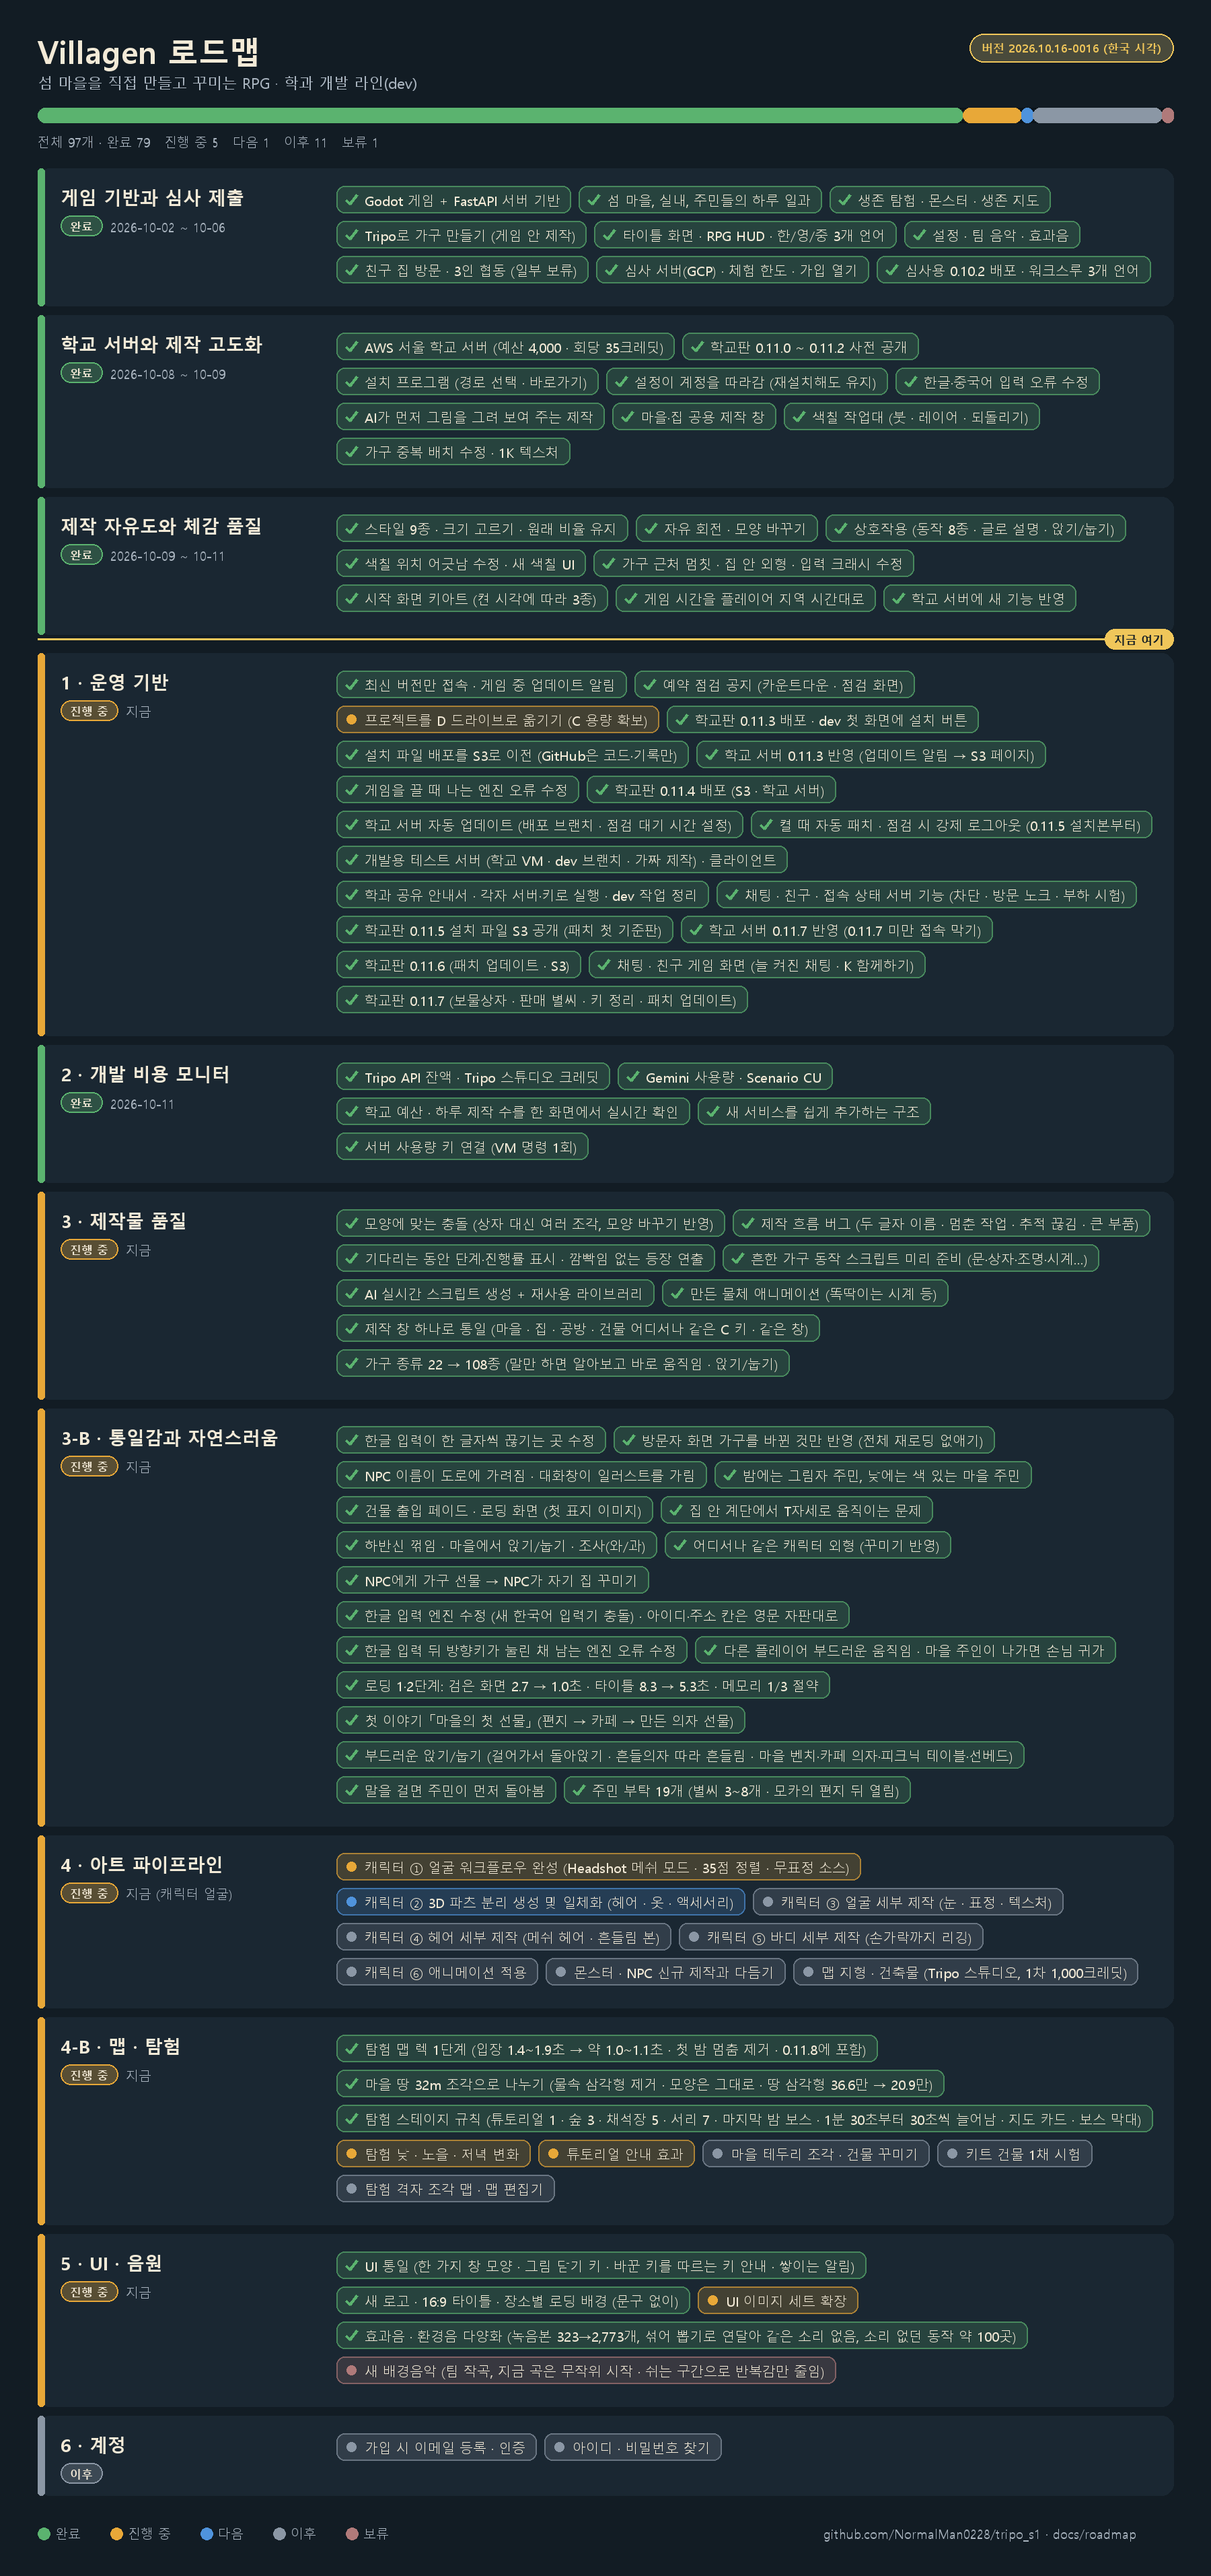
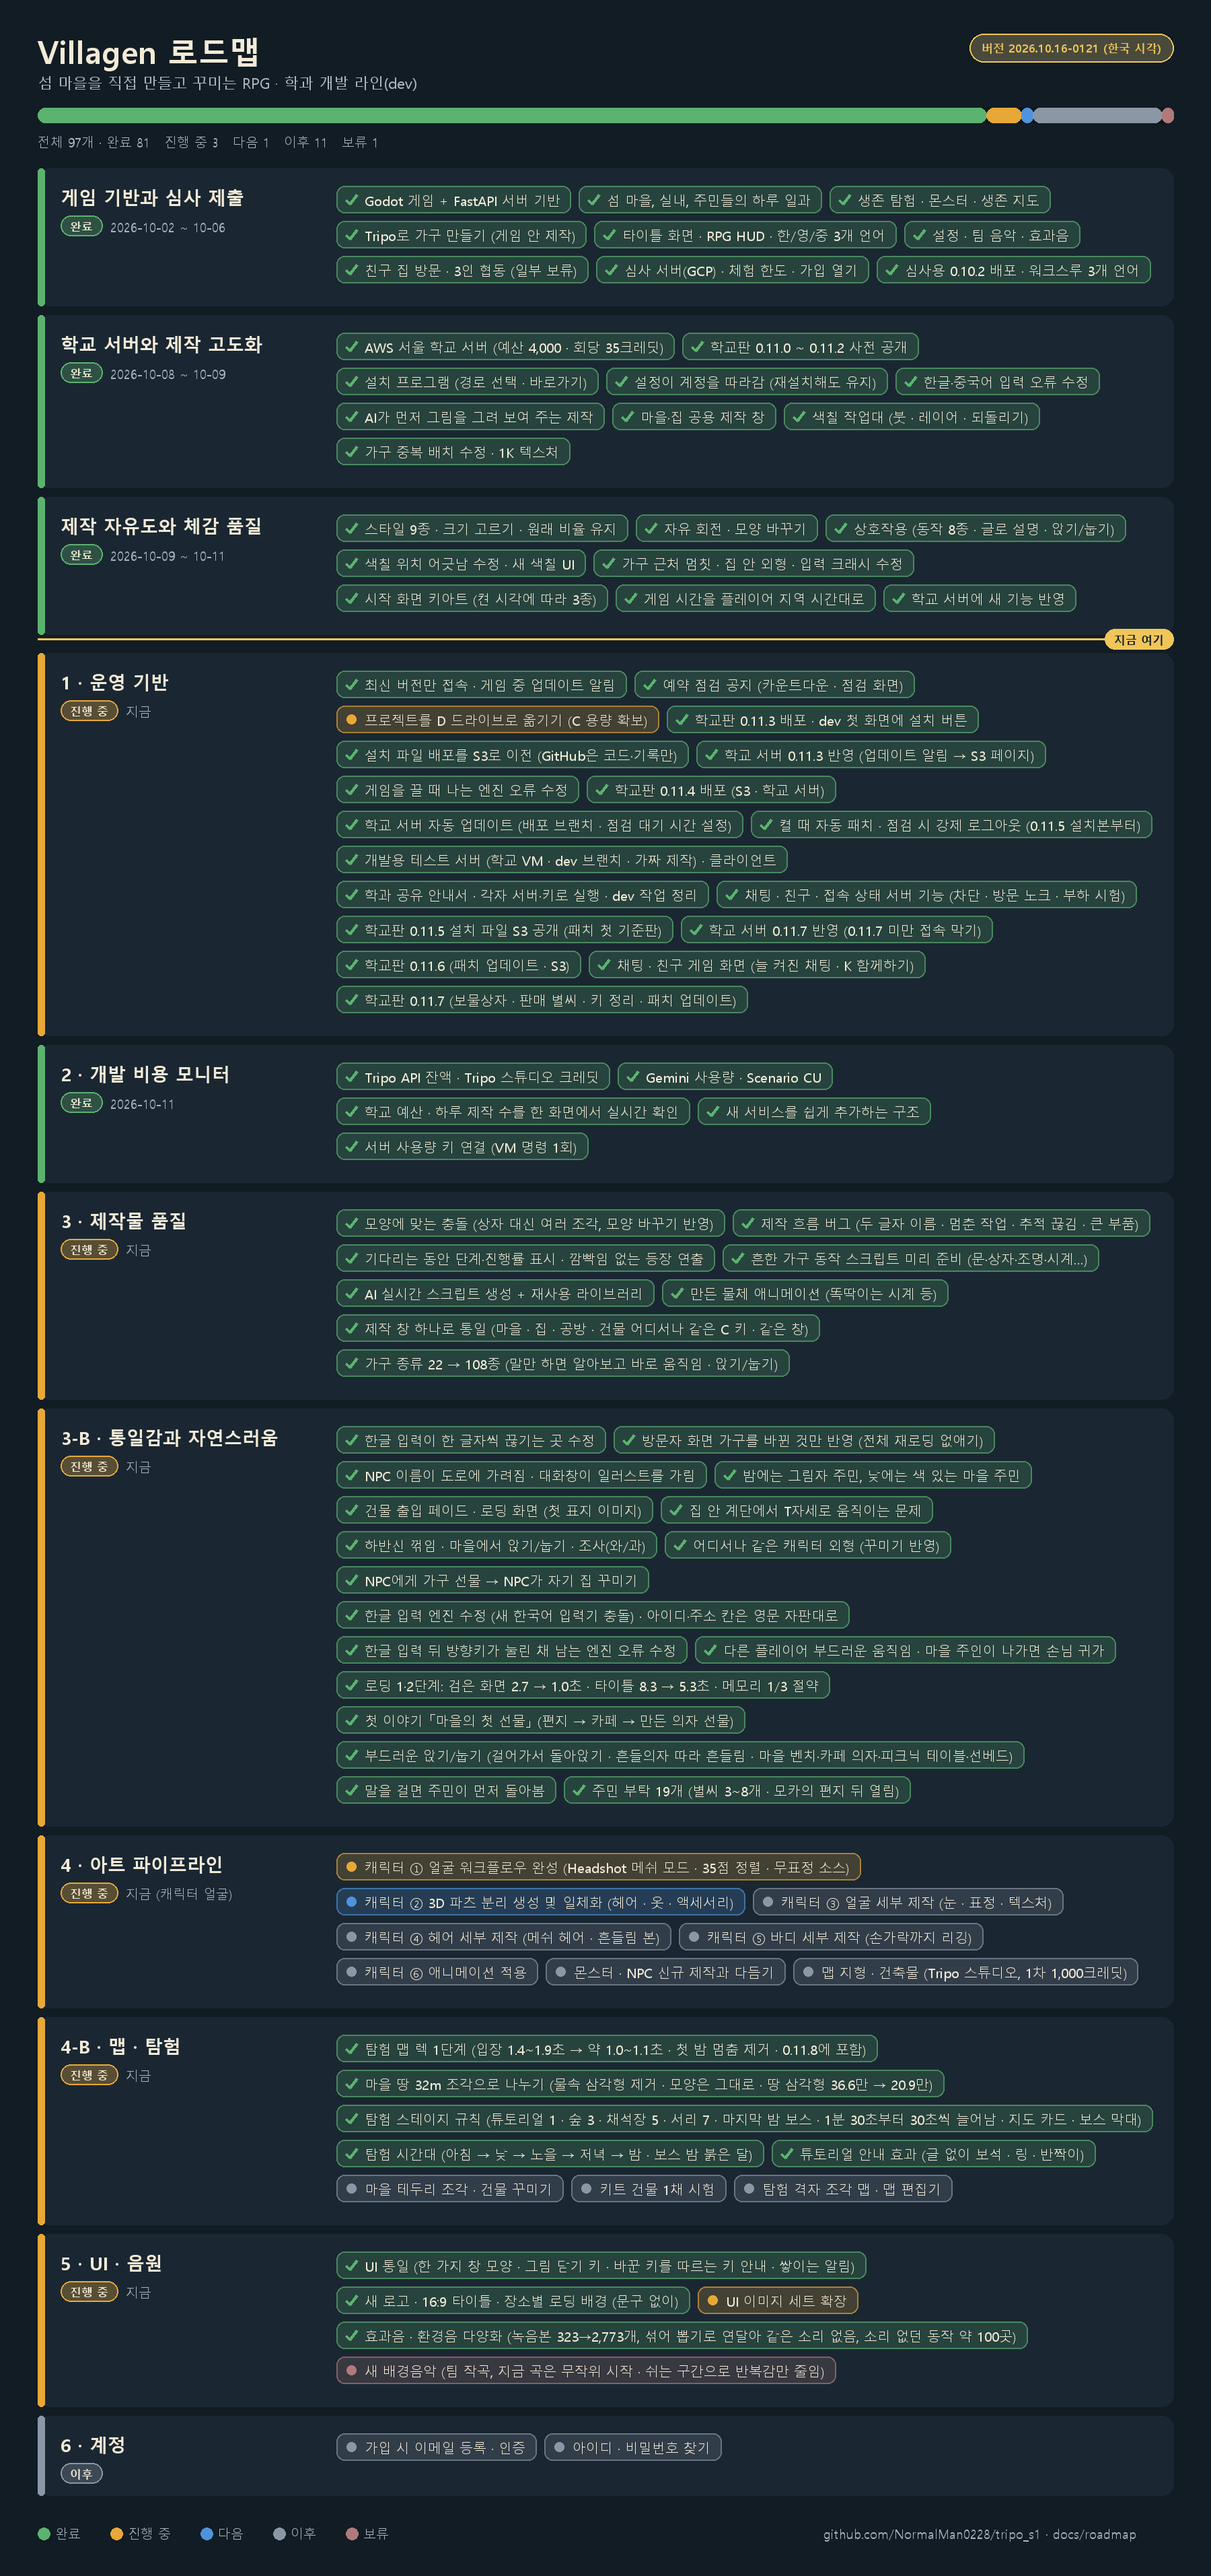
Roadmap: expedition time of day and tutorial guidance merged into dev

Changed region(s): [[0.28, 0.8087, 0.5911, 0.8709], [0.7467, 0.8087, 0.7778, 0.8398]]

diff --git a/docs/roadmap/ROADMAP_KO.md b/docs/roadmap/ROADMAP_KO.md
@@ -1,8 +1,8 @@
 # Villagen 로드맵
 
-**버전 2026.10.16-0016** (한국 시각) · 섬 마을을 직접 만들고 꾸미는 RPG · 학과 개발 라인(dev)
+**버전 2026.10.16-0121** (한국 시각) · 섬 마을을 직접 만들고 꾸미는 RPG · 학과 개발 라인(dev)
 
-> 그림으로 보기: [VISUAL_KO.md](VISUAL_KO.md) · 전체 97개 중 완료 79 · 진행 중 5 · 다음 1 · 이후 11 · 보류 1
+> 그림으로 보기: [VISUAL_KO.md](VISUAL_KO.md) · 전체 97개 중 완료 81 · 진행 중 3 · 다음 1 · 이후 11 · 보류 1
 
 - [학교 서버 운영 안내](../SCHOOL_SERVER_KO.txt)
 - [제작 품질표](../CRAFT_QUALITY_KO.md)
@@ -118,8 +118,8 @@
 - [x] 탐험 맵 렉 1단계 (입장 1.4~1.9초 → 약 1.0~1.1초 · 첫 밤 멈춤 제거 · 0.11.8에 포함) (10-15)
 - [x] 마을 땅 32m 조각으로 나누기 (물속 삼각형 제거 · 모양은 그대로 · 땅 삼각형 36.6만 → 20.9만) (10-15)
 - [x] 탐험 스테이지 규칙 (튜토리얼 1 · 숲 3 · 채석장 5 · 서리 7 · 마지막 밤 보스 · 1분 30초부터 30초씩 늘어남 · 지도 카드 · 보스 막대) (10-15)
-- [ ] 탐험 낮 · 노을 · 저녁 변화 · *진행 중*
-- [ ] 튜토리얼 안내 효과 · *진행 중*
+- [x] 탐험 시간대 (아침 → 낮 → 노을 → 저녁 → 밤 · 보스 밤 붉은 달) (10-16)
+- [x] 튜토리얼 안내 효과 (글 없이 보석 · 링 · 반짝이) (10-16)
 - [ ] 마을 테두리 조각 · 건물 꾸미기 · *이후*
 - [ ] 키트 건물 1채 시험 · *이후*
 - [ ] 탐험 격자 조각 맵 · 맵 편집기 · *이후*
@@ -141,6 +141,7 @@
 
 | 버전 (한국 시각) | 바뀐 점 |
 |---|---|
+| 2026.10.16-0121 | 탐험 시간대 · 튜토리얼 안내 효과 · 효과음 다양화 dev 반영 |
 | 2026.10.16-0016 | 효과음·환경음 다양화: 녹음본 323→2,773개, 섞어 뽑기, 소리 없던 동작 약 100곳 (docs/sound/README_KO.md) |
 | 2026.10.15-2344 | 탐험 스테이지 규칙 · 마을 땅 조각화 dev 반영 (학교 서버 배포 전) |
 | 2026.10.15-2142 | 맵 · 탐험 단계 추가 (탐험 렉 1단계 완료, 땅 조각화 · 스테이지 규칙 진행 중), 학교 서버 0.11.7 반영 완료 |

diff --git a/docs/roadmap/VISUAL_KO.md b/docs/roadmap/VISUAL_KO.md
@@ -1,7 +1,7 @@
 # Villagen 로드맵 (그림)
 
-**버전 2026.10.16-0016** (한국 시각) · 글로 보기: [ROADMAP_KO.md](ROADMAP_KO.md)
+**버전 2026.10.16-0121** (한국 시각) · 글로 보기: [ROADMAP_KO.md](ROADMAP_KO.md)
 
-![Villagen 로드맵 2026.10.16-0016](roadmap.png)
+![Villagen 로드맵 2026.10.16-0121](roadmap.png)
 
 초록 완료 · 주황 진행 중 · 파랑 다음 · 회색 이후 · 갈색 보류

diff --git a/docs/roadmap/README.md b/docs/roadmap/README.md
@@ -1,8 +1,8 @@
 # Villagen 로드맵
 
-**버전 2026.10.16-0016** (한국 시각)
+**버전 2026.10.16-0121** (한국 시각)
 
 - [그림으로 보기](VISUAL_KO.md)
-- [글로 보기](ROADMAP_KO.md) — 완료 79 · 진행 중 5 · 다음 1 · 이후 11
+- [글로 보기](ROADMAP_KO.md) — 완료 81 · 진행 중 3 · 다음 1 · 이후 11
 
 ![로드맵](roadmap.png)
